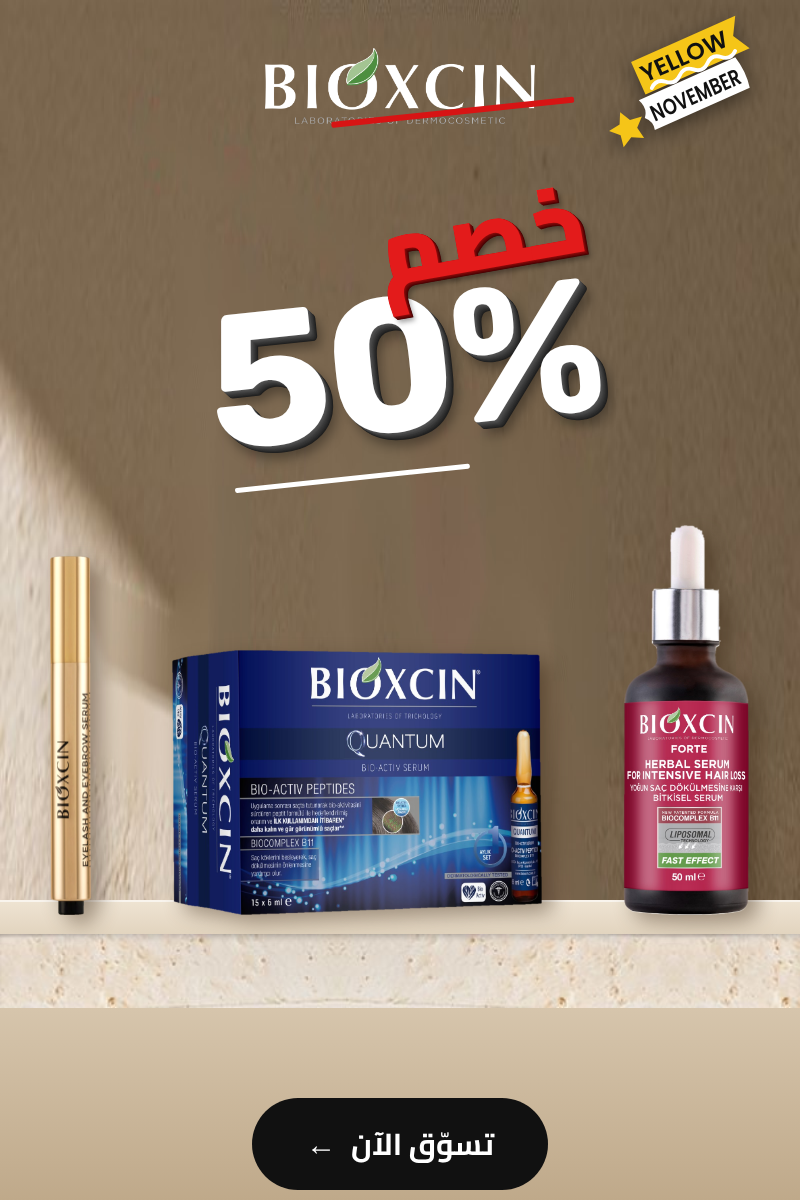
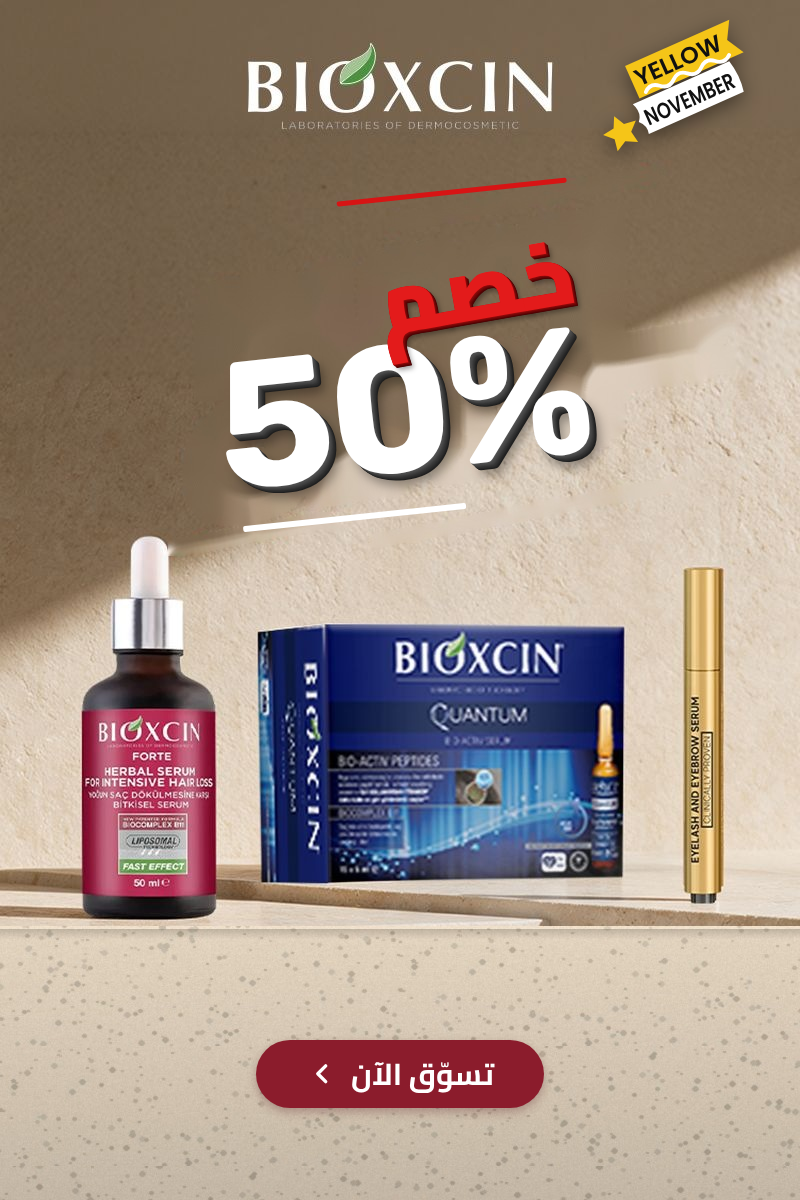
Offer 3 vertical: original vertical photo (tapes cut off) with stone step, 3D 50% OFF / خصم lockup, sticker, CTA
Claude-Session: https://claude.ai/code/session_01MejyVmSq2aYVYmituLqweB

diff --git a/banners/banners.css b/banners/banners.css
@@ -719,3 +719,13 @@ img.logo { object-fit: contain; }
 .studio.mobile-hero .bf-sticker { left: 580px; top: 2px; }
 .sc-big:has(.ar-lock) .sc-line.red { top: -.42em; right: 0; width: 62%; }
 .studio.mobile-slim[dir="rtl"] .ph-copy { top: 30px; }
+/* 800 x 1200 studio (photo already has logo + products) */
+.studio.mobile-vertical-hero .ph-copy { left: 0; right: 0; top: 190px; gap: 0; }
+.studio.mobile-vertical-hero .sc-big { font-size: 190px; }
+[dir="rtl"].studio.mobile-vertical-hero .sc-big { font-size: 180px; }
+.studio.mobile-vertical-hero .st-cta { position: absolute; top: 850px; font-size: 30px; padding: 18px 50px; }
+.studio.mobile-vertical-hero .bf-sticker { width: 190px; top: 14px; left: 14px; }
+[dir="rtl"].studio.mobile-vertical-hero .bf-sticker { left: auto; right: 14px; }
+[dir="rtl"].studio.mobile-vertical-hero .ph-copy { top: 250px; }
+[dir="rtl"].studio.mobile-vertical-hero .sc-line.red { top: -.3em; }
+[dir="rtl"].studio.mobile-vertical-hero .st-cta { top: 790px; }

diff --git a/banners/banners.js b/banners/banners.js
@@ -315,6 +315,7 @@ const STUDIO_GEO = {
   "mobile-slim": { k: 1, ox: 0, oy: 0 },
   "desktop-hero": { k: 1.5, ox: 240, oy: 0 },
   "mobile-hero": { k: 1.25, ox: 0, oy: 70, logo: true },
+  "mobile-vertical-hero": { k: 1, ox: 0, oy: 0, noProducts: true },
 };
 
 // "Scene" layout: photo wall, stone ledge, products standing on it, 3D "50% OFF".
@@ -331,7 +332,7 @@ function sceneBannerHTML(offer, size, lang, style) {
     const g = STUDIO_GEO[size.id];
     // product spots in the original 800x200 photo: [centre x, bottom y, height]
     const spots = [[288, 188, 176], [418, 184, 134], [536, 186, 164]];
-    const prods = offer.products.map((p, i) => {
+    const prods = g.noProducts ? "" : offer.products.map((p, i) => {
       const [cx, by, h] = spots[i];
       return `<img class="st-abs" src="${esc(p.image)}" alt=""
         style="left:${g.ox + cx * g.k}px;top:${g.oy + by * g.k}px;height:${h * g.k}px">`;

diff --git a/banners/make-wide-bg.py b/banners/make-wide-bg.py
@@ -19,3 +19,22 @@ def build(name, W, H, k, ox, oy):
 build("800x200", 800, 200, 1.0, 0, 0)
 build("1440x300", 1440, 300, 1.5, 240, 0)
 build("706x320", 706, 320, 1.25, 0, 70)
+
+# 800 x 1200 (vertical): the supplied vertical photo cut above the old tapes,
+# with a stone step face below for the button.
+v = Image.open(here / "products/offer3-vertical-src.png").convert("RGB")
+cut = 926
+canvas = Image.new("RGB", (800, 1200))
+canvas.paste(v.crop((0, 0, 800, cut)), (0, 0))
+st = Image.open(here / "products/offer3-stone.jpg").convert("RGB")
+stone = Image.new("RGB", (800, 274))
+for i, y in enumerate(range(0, 274, st.height)):
+    stone.paste(st.crop((i * 400, 0, i * 400 + 800, st.height)), (0, y))
+import numpy as np
+s = np.asarray(stone).astype(np.float32)
+grad = np.linspace(1.0, 0.86, s.shape[0])[:, None, None]
+s = s * grad
+s[:3] = s[:3] * 1.06          # bright top edge of the step
+s[3:14] *= np.linspace(0.85, 1, 11)[:, None, None]   # contact shadow just under the edge
+canvas.paste(Image.fromarray(s.clip(0, 255).astype(np.uint8)), (0, cut))
+canvas.save(here / "products/offer3-bg-800x1200.jpg", quality=93)
